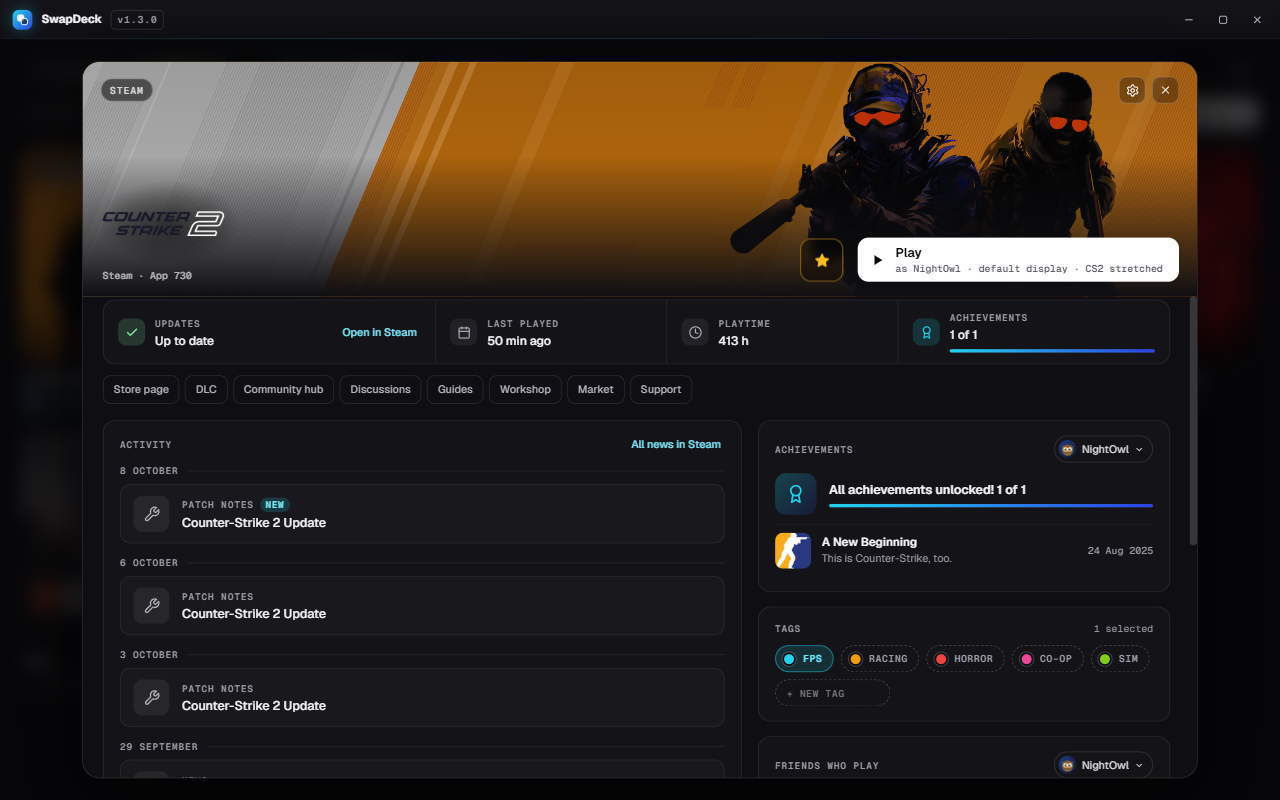
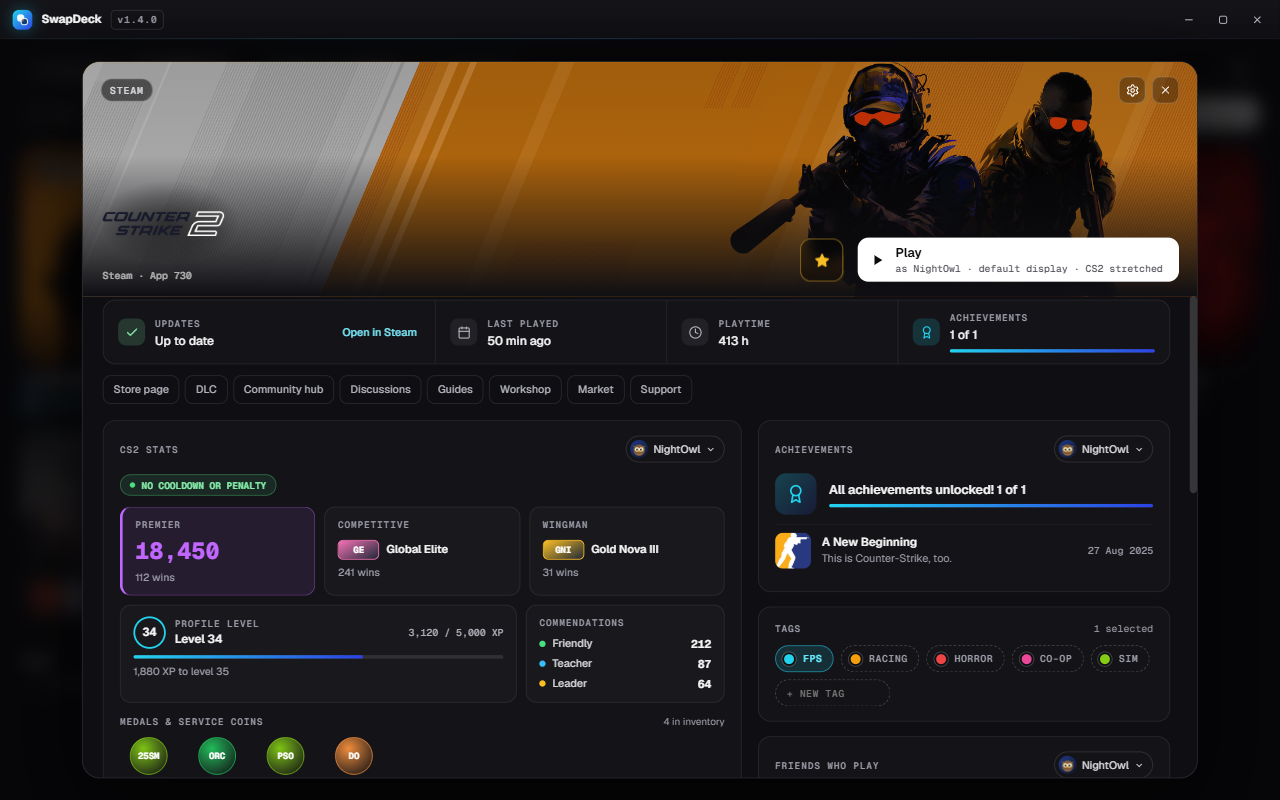
v1.4.0: CS2 stats card on CS2's Overview (Premier, ranks, level, commendations, medals) with the shared account picker

diff --git a/src/renderer/ui.js b/src/renderer/ui.js
@@ -8,7 +8,7 @@ import { galleryEl } from './gallery.js';
 import { CHANGELOG, newer } from './changelog.js';
 import { BASES, ACCENTS, WIN_ACCENT, hx, toHex, mixc, themeTokens } from './theme.js';
 import { TAG_PRESETS, PANEL_W } from './tagpicker.js';
-import { tagsCard, screenshotsCard, workshopCard, notesCard, achievementsCard, activityCard, dlcCard, friendsCard } from './gamepage.js';
+import { tagsCard, screenshotsCard, workshopCard, notesCard, achievementsCard, activityCard, dlcCard, friendsCard, cs2StatsCard } from './gamepage.js';
 import { newsReader } from './newsreader.js';
 import { updateBadge } from './updatebadge.js';
 
@@ -139,7 +139,7 @@ class App extends Component {
     fetching: {}, sw: null, toasts: [], confirmId: null, unlinkId: null, setOpen: false, setSec: 'general', addOpen: false, retrying: false,
     link: null, defMenu: false, unlockPw: '', unlockErr: false,
     mp: { form: null, a: '', b: '', old: '', auto: false, mismatch: false, err: null },
-    lq: '', lf: 'all', libTags: [], tagPop: null, colorFor: null, gdKeep: [], gTagDraft: '', dKeep: [], gdTab: 'ov', gInfo: null, gShotAcct: null, gShotMenu: false, gShot: null, gNews: null, gAchMenu: false, gAchAll: null, gFrMenu: false, libUpd: {}, ls: 'recent', hovG: null, gd: null, acctMenu: false, ag: null, launch: null, rmId: null, logoFail: {},
+    lq: '', lf: 'all', libTags: [], tagPop: null, colorFor: null, gdKeep: [], gTagDraft: '', dKeep: [], gdTab: 'ov', gInfo: null, gShotAcct: null, gShotMenu: false, gShot: null, gNews: null, gAchMenu: false, gAchAll: null, gFrMenu: false, gCsMenu: false, libUpd: {}, ls: 'recent', hovG: null, gd: null, acctMenu: false, ag: null, launch: null, rmId: null, logoFail: {},
     disp: { testing: false, applying: false, err: null }, rp: null, rpTesting: null, libLoading: false,
     audioDevs: [], playLog: {}, lsel: null, sessions: [], cs2: null, gCs2Sid: null, menu: null, menuUp: false, wn: false,
   };
@@ -421,7 +421,7 @@ class App extends Component {
     if (e.key === 'Escape') {
       if (S.gNews) return this.setState({ gNews: null });
       if (S.gShot) return this.setState({ gShot: null });
-      if (S.gShotMenu || S.gAchMenu || S.gFrMenu) return this.setState({ gShotMenu: false, gAchMenu: false, gFrMenu: false });
+      if (S.gShotMenu || S.gAchMenu || S.gFrMenu || S.gCsMenu) return this.setState({ gShotMenu: false, gAchMenu: false, gFrMenu: false, gCsMenu: false });
       if (S.colorFor) return this.setState({ colorFor: null });
       if (S.tagPop) return this.setState({ tagPop: null });
       if (S.defMenu) return this.setState({ defMenu: false });
@@ -794,7 +794,7 @@ class App extends Component {
       onBack: () => this.setState({ gNews: null }), onSteam: () => api.openSteamNews(g.appid, N.gid), onLink: url => api.openNewsLink(url),
     });
   }
-  pickCardAccount(sid) { this.setState({ gShotAcct: sid, gShotMenu: false, gAchMenu: false, gFrMenu: false, gAchAll: null }, () => this.loadConnected(this.state.gd)); }
+  pickCardAccount(sid) { this.setState({ gShotAcct: sid, gShotMenu: false, gAchMenu: false, gFrMenu: false, gCsMenu: false, gAchAll: null }, () => this.loadConnected(this.state.gd)); }
   friendsVals(g) {
     const S = this.state, I = this.gInfoOf(g), who = this.connectedAccount(g), mine = this.accts.find(a => a.current) || this.accts[0];
     if (!who) return { pill: null, state: 'none', recent: [], ever: [], onConnect: () => this.connectFromGame(g.acct || (mine && mine.id)) };
@@ -811,6 +811,34 @@ class App extends Component {
       pill, state: 'ok',
       recent: F.recent.map(f => ({ name: f.name, avatar: f.avatar, sub: hrs(f.minutes), open: open(f.sid) })), recentLabel: F.recentTotal + ' friend' + (F.recentTotal === 1 ? '' : 's') + ' played recently',
       ever: F.ever.map(f => ({ name: f.name, avatar: f.avatar, open: open(f.sid) })), everLabel: F.everTotal + ' friend' + (F.everTotal === 1 ? '' : 's') + ' played before',
+    };
+  }
+  // CS2 stats on CS2's Overview, for one connected account (picked like the other cards).
+  cs2StatsVals(g) {
+    const S = this.state, linked = this.accts.filter(a => a.linked), mine = this.accts.find(a => a.current) || this.accts[0];
+    if (!linked.length) return { pill: null, state: 'none', onConnect: () => this.connectFromGame(g.acct || (mine && mine.id)) };
+    const csOf = a => a.stats && a.stats.cs2;
+    const sel = this.cardAccount(g, linked.map(a => ({ sid: a.id, a })), x => csOf(x.a) ? (csOf(x.a).premier || 0) + 1 : 0), a = sel.a;
+    const pill = { acct: this.accountLook(a.id), menuOpen: S.gCsMenu, onMenu: () => this.setState(s => ({ gCsMenu: !s.gCsMenu, gShotMenu: false, gAchMenu: false, gFrMenu: false })),
+      accounts: this.accts.map(x => ({ ...this.accountLook(x.id), count: !x.linked ? 'CONNECT' : csOf(x) && csOf(x).premier != null ? fmt(csOf(x).premier) : '', on: x.id === a.id, pick: () => x.linked ? this.pickCardAccount(x.id) : this.connectFromGame(x.id) })) };
+    const c = csOf(a), st = a.stats;
+    if (!c) {
+      if (S.fetching[a.id] !== undefined) return { pill, state: 'loading' };
+      const note = st && st.cs2Note;
+      const emptyText = note === 'in-game' ? a.name + ' is in a game on another session. Asking CS2 would kick it, so SwapDeck waits. Refresh when you are out of the game.'
+        : note === 'not-played' ? a.name + " hasn't played CS2 yet." : 'No CS2 stats for ' + a.name + ' yet.';
+      return { pill, state: 'empty', emptyText, onRefresh: () => this.fetchStats(a.id) };
+    }
+    const prFg = tier(c.premier), cd = c.cd && c.cd.until > Date.now() ? c.cd : null, com = c.com || {};
+    return {
+      pill, state: 'ok',
+      cd: cd ? { kind: cd.kind, reason: cd.reason, left: left(cd.until) } : null,
+      premier: { text: c.premier == null ? 'Unrated' : fmt(c.premier), fg: prFg, bg: hexA(prFg, .1), bd: hexA(prFg, .4), wins: c.premier == null ? (c.vacBanned ? 'Account is VAC banned' : 'Win 10 Premier matches for a rating') : c.premierWins + ' wins' },
+      ranks: [['Competitive', c.comp], ['Wingman', c.wing]].map(([label, r]) => { const i = r ? r.i : 0, name = r ? r.name : 'Unranked', col = rankCol(i); return { label, name, ab: r && i ? abbr(name) : '-', col, artBg: G(col, '#1f2937'), wins: r ? r.wins + ' wins' : 'No ranked wins yet' }; }),
+      lvl: c.level, xpText: fmt(c.xp) + ' / ' + fmt(c.xpMax) + ' XP', xpPct: Math.round(c.xp / (c.xpMax || 1) * 100), xpLeft: fmt(c.xpMax - c.xp) + ' XP to level ' + (c.level + 1),
+      coms: [['Friendly', com.f, '#4ade80'], ['Teacher', com.t, '#38bdf8'], ['Leader', com.l, '#fbbf24']].map(([label, n, color]) => ({ label, n: fmt(n || 0), color })),
+      medals: (c.medals || []).map(m => { const col = GAMECOL[hash(m.name) % GAMECOL.length]; return m.icon ? { name: m.name, ab: '', bg: 'url("' + m.icon + '") center/contain no-repeat', bd: 'transparent' } : { name: m.name, ab: abbr(m.name), bg: 'radial-gradient(circle at 35% 30%,' + hexA(col, .95) + ',' + hexA(col, .35) + ' 60%,rgba(0,0,0,.4))', bd: hexA(col, .6) }; }),
+      medalCount: c.medals ? c.medals.length + ' in inventory' : 'Inventory unavailable',
     };
   }
   activityVals(g) {
@@ -969,7 +997,7 @@ class App extends Component {
           ach ? ach.cell : null,
         ].filter(Boolean),
         links: [['Store page', 'store'], ['DLC', 'dlc'], ['Community hub', 'hub'], ['Discussions', 'discussions'], ['Guides', 'guides'], ['Workshop', 'workshop'], ['Market', 'market'], ['Support', 'support']].map(([label, kind]) => ({ label, on: page(kind) })),
-        left: [I ? activityCard(this.activityVals(g)) : null, shots ? screenshotsCard(shots) : null],
+        left: [isCs2(g) ? cs2StatsCard(this.cs2StatsVals(g)) : null, I ? activityCard(this.activityVals(g)) : null, shots ? screenshotsCard(shots) : null],
         right: [
           ach ? achievementsCard(ach.card) : null,
           tagsCard(ed, g.tags.length ? g.tags.length + ' selected' : ''),
@@ -1014,7 +1042,7 @@ class App extends Component {
     if (v === 'lib') { this.reloadLib(); this.reloadMonitors(); this.pollUpdates(true); }
   }
   openGame(id) {
-    this.setState({ gd: id, gdTab: 'ov', acctMenu: false, gdKeep: [], gTagDraft: '', tagPop: null, colorFor: null, gInfo: null, gShotAcct: null, gShotMenu: false, gShot: null, gNews: null, gAchMenu: false, gAchAll: null, gFrMenu: false, gCs2Sid: null, cs2: null });
+    this.setState({ gd: id, gdTab: 'ov', acctMenu: false, gdKeep: [], gTagDraft: '', tagPop: null, colorFor: null, gInfo: null, gShotAcct: null, gShotMenu: false, gShot: null, gNews: null, gAchMenu: false, gAchAll: null, gFrMenu: false, gCsMenu: false, gCs2Sid: null, cs2: null });
     this.loadGameInfo(id);
     this.reloadMonitors();
     api.audioDevices().then(audioDevs => audioDevs && this.setState({ audioDevs }));

diff --git a/src/renderer/gamepage.js b/src/renderer/gamepage.js
@@ -112,6 +112,31 @@ export function dlcCard(p) {
   return card('DLC', body, html`<button style="border:0;background:transparent;color:var(--accent-strong);font:500 12px 'Geist',sans-serif;cursor:pointer;padding:2px 4px;border-radius:6px" onClick=${p.onStore} class="dch4">View in store</button>`);
 }
 
+// CS2's own stats for one account (Premier, ranks, level, commendations, medals), on CS2's Overview.
+// p: { pill | null, state: 'none' | 'loading' | 'empty' | 'ok', emptyText, onConnect, onRefresh,
+//      cd: { kind, reason, left } | null, premier: { text, fg, bg, bd, wins }, ranks: [{ label, name, ab, col, artBg, wins }],
+//      lvl, xpText, xpPct, xpLeft, coms: [{ label, n, color }], medals: [{ name, ab, bg, bd }], medalCount }
+const tile = (body, extra = '') => html`<div style=${`border-radius:12px;border:1px solid rgba(var(--fg-rgb),.08);background:rgba(var(--fg-rgb),.02);padding:12px 14px;min-width:0;${extra}`}>${body}</div>`;
+export function cs2StatsCard(p) {
+  const aside = p.pill ? acctPill(p.pill) : null;
+  if (p.state === 'none') return card('CS2 stats', html`<div style=${MUTED}>Premier rating, ranks, level and medals come from CS2's servers for accounts connected for stats.</div><div style="margin-top:10px"><button style=${BTN} onClick=${p.onConnect} class="dcha">Connect for stats</button></div>`, aside);
+  if (p.state === 'loading') return card('CS2 stats', html`<div style="display:grid;grid-template-columns:repeat(3,1fr);gap:10px">${[0, 1, 2].map(i => html`<div style=${`height:92px;border-radius:12px;background:rgba(var(--fg-rgb),.05);animation:shim 1.2s ease-in-out ${i / 10}s infinite`}></div>`)}</div><div style=${`${MUTED};margin-top:10px`}>Asking CS2's servers… usually 5 to 10 seconds</div>`, aside);
+  if (p.state === 'empty') return card('CS2 stats', html`<div style=${MUTED}>${p.emptyText}</div><div style="margin-top:10px"><button style=${BTN} onClick=${p.onRefresh} class="dcha">Refresh stats</button></div>`, aside);
+  const small = (t, c = 'var(--text-subtle)') => html`<div style=${`font:500 11.5px 'Geist',sans-serif;color:${c};margin-top:6px`}>${t}</div>`;
+  const head = t => html`<div style=${LABEL}>${t}</div>`;
+  const cd = p.cd ? html`<div style="display:flex;align-items:center;gap:10px;padding:10px 12px;border-radius:12px;background:rgba(251,191,36,.08);border:1px solid rgba(251,191,36,.4);margin-bottom:12px"><div style="flex:1;min-width:0"><div style="font:600 13px 'Geist',sans-serif;color:var(--warn-fg)">${p.cd.kind} active</div><div style="font:400 12px 'Geist',sans-serif;color:var(--text-soft);margin-top:1px">Reason: ${p.cd.reason}</div></div><div style="font:700 15px 'Geist Mono',monospace;color:var(--warn-fg)">${p.cd.left}</div></div>`
+    : html`<div style="display:inline-flex;align-items:center;gap:7px;margin-bottom:12px;font:600 10.5px 'Geist Mono',monospace;padding:4px 10px;border-radius:99px;background:rgba(74,222,128,.1);color:var(--ok-fg);border:1px solid rgba(74,222,128,.35);text-transform:uppercase"><span style="width:6px;height:6px;border-radius:99px;background:#4ade80"></span>No cooldown or penalty</div>`;
+  const pr = p.premier;
+  const top = html`<div style="display:grid;grid-template-columns:repeat(3,minmax(0,1fr));gap:10px">
+${tile(html`${head('Premier')}<div style=${`font:800 26px/1.15 'Geist Mono',monospace;color:${pr.fg};margin-top:8px`}>${pr.text}</div>${small(pr.wins)}`, `border-color:${pr.bd};background:${pr.bg};border-left:3px solid ${pr.fg}`)}
+${p.ranks.map(r => tile(html`${head(r.label)}<div style="display:flex;align-items:center;gap:8px;margin-top:10px"><span style=${`width:46px;height:22px;flex:none;border-radius:6px;background:${r.artBg};border:1px solid ${r.col};display:grid;place-items:center;font:700 10px 'Geist Mono',monospace;color:#fff`}>${r.ab}</span><span style="font:600 12.5px/1.25 'Geist',sans-serif;min-width:0">${r.name}</span></div>${small(r.wins)}`))}</div>`;
+  const mid = html`<div style="display:grid;grid-template-columns:minmax(0,2fr) minmax(0,1fr);gap:10px;margin-top:10px">
+${tile(html`<div style="display:flex;align-items:center;gap:10px"><span style="width:36px;height:36px;flex:none;border-radius:99px;border:2px solid var(--accent);display:grid;place-items:center;font:700 13px 'Geist Mono',monospace">${p.lvl}</span><div style="flex:1;min-width:0">${head('Profile level')}<div style="font:600 13px 'Geist',sans-serif;margin-top:2px">Level ${p.lvl}</div></div><span style="font:500 11px 'Geist Mono',monospace;color:var(--text-muted)">${p.xpText}</span></div>${bar(p.xpPct)}${small(p.xpLeft)}`)}
+${tile(html`${head('Commendations')}<div style="display:flex;flex-direction:column;gap:5px;margin-top:8px">${p.coms.map(c => html`<div style="display:flex;align-items:center;gap:7px;font:500 12px 'Geist',sans-serif;color:var(--text-soft)"><span style=${`width:7px;height:7px;border-radius:99px;background:${c.color}`}></span>${c.label}<span style="margin-left:auto;font:700 12.5px 'Geist Mono',monospace;color:var(--text)">${c.n}</span></div>`)}</div>`)}</div>`;
+  const medals = p.medals.length ? html`<div style="margin-top:14px"><div style="display:flex;align-items:baseline;margin-bottom:10px">${head('Medals & service coins')}<span style="margin-left:auto;font:400 11px 'Geist',sans-serif;color:var(--text-subtle)">${p.medalCount}</span></div><div style="display:flex;gap:12px;flex-wrap:wrap">${p.medals.map(m => html`<div style="width:64px;display:flex;flex-direction:column;align-items:center;gap:5px" title=${m.name}><span style=${`width:42px;height:42px;border-radius:99px;background:${m.bg};border:1.5px solid ${m.bd};display:grid;place-items:center;font:700 10px 'Geist Mono',monospace;color:#fff`}>${m.ab}</span><span style="font:400 10.5px/1.3 'Geist',sans-serif;color:var(--text-muted);text-align:center;display:-webkit-box;-webkit-line-clamp:2;-webkit-box-orient:vertical;overflow:hidden">${m.name}</span></div>`)}</div></div>` : null;
+  return card('CS2 stats', html`${cd}${top}${mid}${medals}`, aside);
+}
+
 // p: { pill | null, state: 'none' | 'loading' | 'error' | 'ok', error, recent: [{ name, avatar, sub, open }], recentLabel,
 //      ever: [{ name, avatar, open }], everLabel, onConnect }
 export function friendsCard(p) {

diff --git a/src/renderer/changelog.js b/src/renderer/changelog.js
@@ -5,13 +5,13 @@ export const CHANGELOG = [
   {
     v: '1.4.0', date: '11 Oct 2026',
     title: 'A new account profile',
-    intro: 'Account details open as a full profile with everything at a glance, every game the account owns, and CS2 settings on CS2\'s own page.',
+    intro: 'Account details open as a full profile with everything at a glance and every game the account owns, and everything CS2 now lives on CS2\'s own page.',
     highlights: [
       ['New profile', 'Account details fill the window: the account on the left, its games, sessions and status on the right.'],
       ['At a glance', 'Hours through SwapDeck, games owned, Steam wallet and member since, right at the top.'],
       ['All games', 'See every game the account owns, sorted by hours, the last 2 weeks or name.'],
       ['Any game\'s page', 'The ⓘ next to a game opens its page, even if it isn\'t installed on this PC.'],
-      ['CS2 settings', 'The per-account autoexec and copying settings now live on CS2\'s page, behind the gear.'],
+      ['CS2 in one place', 'Premier rating, ranks and medals are on CS2\'s page, with its per-account settings behind the gear.'],
     ],
     sections: [
       ['Account profile', [
@@ -28,12 +28,13 @@ export const CHANGELOG = [
         'Games that aren\'t installed on this PC open too, and join the Library as Not installed',
       ]],
       ['CS2', [
+        'CS2 stats moved from the account to CS2\'s Overview: Premier rating, Competitive and Wingman ranks, level, commendations, medals and any cooldown',
+        'Pick whose stats in the card\'s corner, like Achievements and Friends who play',
         'CS2 settings moved to CS2\'s page, behind the gear: the per-account autoexec and Copy settings from another account',
-        'Pick the account in the card. It starts on the game\'s account, or the one signed in',
+        'Pick the account in the settings card. It starts on the game\'s account, or the one signed in',
       ]],
       ['Good to know', [
-        'The CS2 tab is gone, so Premier rating, ranks, level and medals aren\'t shown anymore',
-        'The Steam account card is gone too. Level, wallet, games owned and friends are on the profile, CS2 Prime status isn\'t',
+        'The account\'s CS2 tab and Steam account card are gone. Level, wallet, games owned and friends are on the profile, CS2 Prime status isn\'t shown anymore',
         'Games owned, All games, wallet and level need Connect for stats, like before',
       ]],
     ],

diff --git a/README.md b/README.md
@@ -75,6 +75,7 @@ Built for people who keep separate FPS, sim racing and horror accounts, with a S
 <li><b>Last played, playtime and achievements</b> at a glance, per account</li>
 <li><b>Screenshots</b>, <b>workshop</b> items and <b>DLC</b>, with one-click links to the store, hub, guides and more</li>
 <li><b>Friends who play</b> it, and which DLC the account owns (for accounts connected for stats)</li>
+<li>On CS2's page: <b>Premier rating, ranks, level and medals</b> per account, and its per-account settings behind the gear</li>
 <li>A <b>note</b> for each game: a crosshair code, a server IP…</li>
 </ul>
 </td>
@@ -135,6 +136,7 @@ Built for people who keep separate FPS, sim racing and horror accounts, with a S
 <ul>
 <li><b>Connect for stats</b> with Steam's own sign-in (QR code, password or token)</li>
 <li><b>Every game the account owns</b>, with total hours, the last 2 weeks and VAC bans marked</li>
+<li>CS2 <b>Premier rating</b>, Competitive and Wingman ranks, level and medals, on CS2's page</li>
 <li>The <b>ⓘ</b> next to a game opens its page, even if it isn't installed on this PC</li>
 <li>Steam level, wallet balance, friends, and <b>friends who play</b> each game with the DLC the account owns</li>
 <li>Completely optional. Switching works without it</li>
@@ -266,6 +268,7 @@ Open Settings → Displays → <b>Restore display now</b>. If you can't see Swap
 
 - Steam's **"Ask which account to use each time Steam starts"** blocks automatic sign-in, so SwapDeck turns it off when you switch.
 - If Steam asks for a password after a switch, that account's saved login expired. Sign in once with **Remember me** ticked.
+- CS2 stats aren't refreshed while that account is in a game, because it would kick the game session.
 - Opening the page of a game that isn't installed adds it to the Library as **Not installed**, so its tags and notes have a home.
 - A game's **news, DLC and friends** load when you open its page and are cached for a while, so the first open takes a second.
 - **Monitors** only need to be plugged in and powered. SwapDeck can switch one on that's turned off in Windows.
